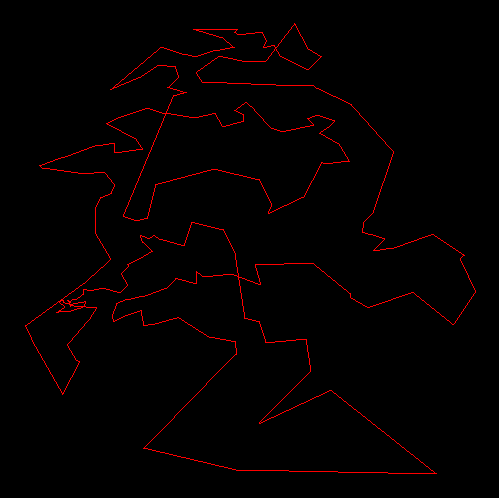
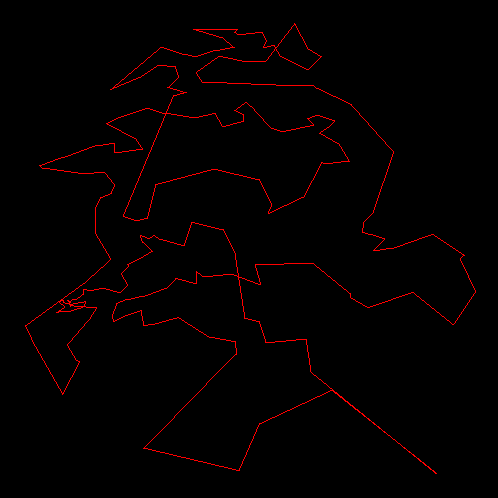
Updated README and Qatar path

diff --git a/README.md b/README.md
@@ -13,13 +13,13 @@ Some of the chromosomes are initially generated using a greedy algorithm (NN), w
 
 Source: <http://www.math.uwaterloo.ca/tsp/world/qatour.html>
 
-* Best result using GA: 10579.839246645282 (361 generations)
+* Best result using GA: 10565.754007178788 (367 generations)
 * Best path using GA: 
 ```
-[52, 54, 48, 46, 38, 41, 43, 47, 51, 39, 34, 31, 32, 30, 35, 42, 50, 55, 49, 44, 40, 37, 27, 12, 10, 9, 5, 15, 19, 73, 84, 100, 110, 112, 115, 116, 117, 121, 120, 123, 124, 128, 133, 135, 129, 131, 136, 143, 148, 155, 151, 147, 152, 141, 144, 150, 153, 157, 154, 139, 138, 142, 146, 149, 145, 140, 137, 134, 132, 127, 125, 126, 114, 109, 113, 119, 122, 118, 106, 105, 107, 108, 158, 159, 162, 167, 170, 171, 166, 160, 185, 180, 178, 181, 184, 188, 193, 192, 191, 189, 190, 187, 183, 186, 179, 172, 169, 176, 182, 194, 174, 173, 175, 177, 168, 165, 164, 163, 161, 156, 130, 111, 104, 101, 99, 94, 89, 90, 98, 86, 85, 65, 20, 63, 36, 59, 62, 82, 80, 71, 76, 75, 78, 72, 74, 69, 60, 57, 45, 29, 22, 28, 33, 18, 21, 24, 26, 17, 14, 11, 7, 3, 2, 1, 6, 4, 8, 16, 13, 23, 25, 87, 102, 103, 91, 93, 96, 95, 97, 92, 88, 83, 81, 79, 77, 70, 64, 68, 66, 67, 61, 58, 56, 53]
+[52, 54, 48, 46, 38, 41, 43, 47, 51, 39, 34, 31, 32, 30, 35, 42, 50, 55, 49, 44, 40, 37, 27, 12, 10, 9, 5, 15, 19, 73, 84, 100, 110, 112, 115, 116, 117, 121, 120, 123, 124, 128, 133, 135, 129, 131, 136, 143, 148, 155, 151, 147, 152, 141, 144, 150, 153, 157, 154, 139, 138, 142, 146, 149, 145, 140, 137, 134, 132, 127, 125, 126, 114, 109, 113, 119, 122, 118, 106, 105, 107, 108, 158, 159, 162, 167, 170, 171, 166, 160, 185, 180, 178, 181, 184, 188, 193, 192, 191, 189, 190, 187, 183, 186, 179, 172, 169, 176, 182, 194, 174, 173, 175, 177, 168, 165, 164, 163, 161, 156, 130, 111, 104, 101, 99, 94, 89, 90, 98, 86, 85, 65, 20, 63, 36, 59, 62, 82, 80, 71, 76, 75, 78, 72, 74, 69, 60, 57, 45, 29, 22, 28, 33, 18, 21, 24, 26, 17, 14, 11, 7, 3, 2, 4, 6, 1, 8, 16, 13, 23, 25, 87, 102, 103, 91, 93, 96, 95, 97, 92, 88, 83, 81, 79, 77, 70, 64, 68, 66, 67, 61, 58, 56, 53]
 ```
 * Optimal result: 9352
-* Error: 13.13 %
+* Error: 12.98 %
 
 ![Qatar path using GA](https://raw.githubusercontent.com/nicolopinci/geneticTSP/master/img/qatar.png "Qatar path using GA")
 
